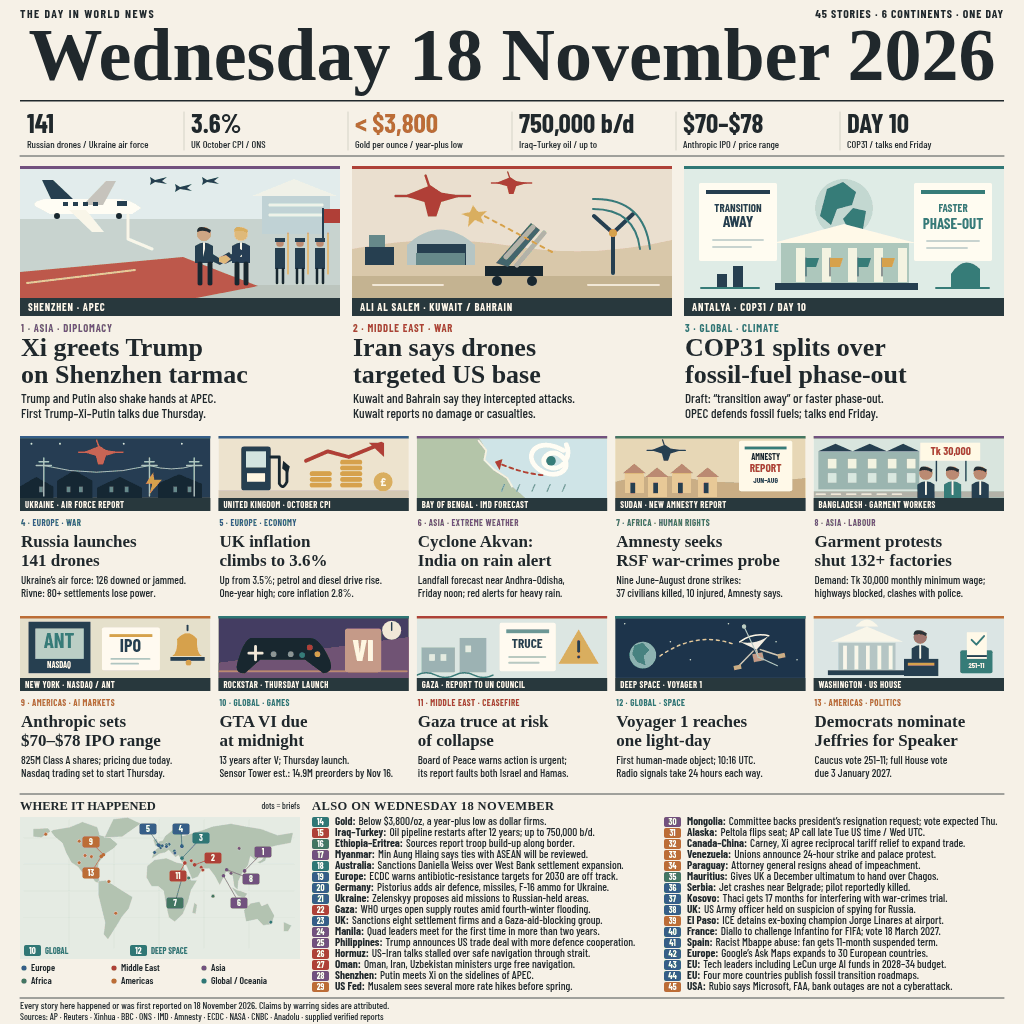
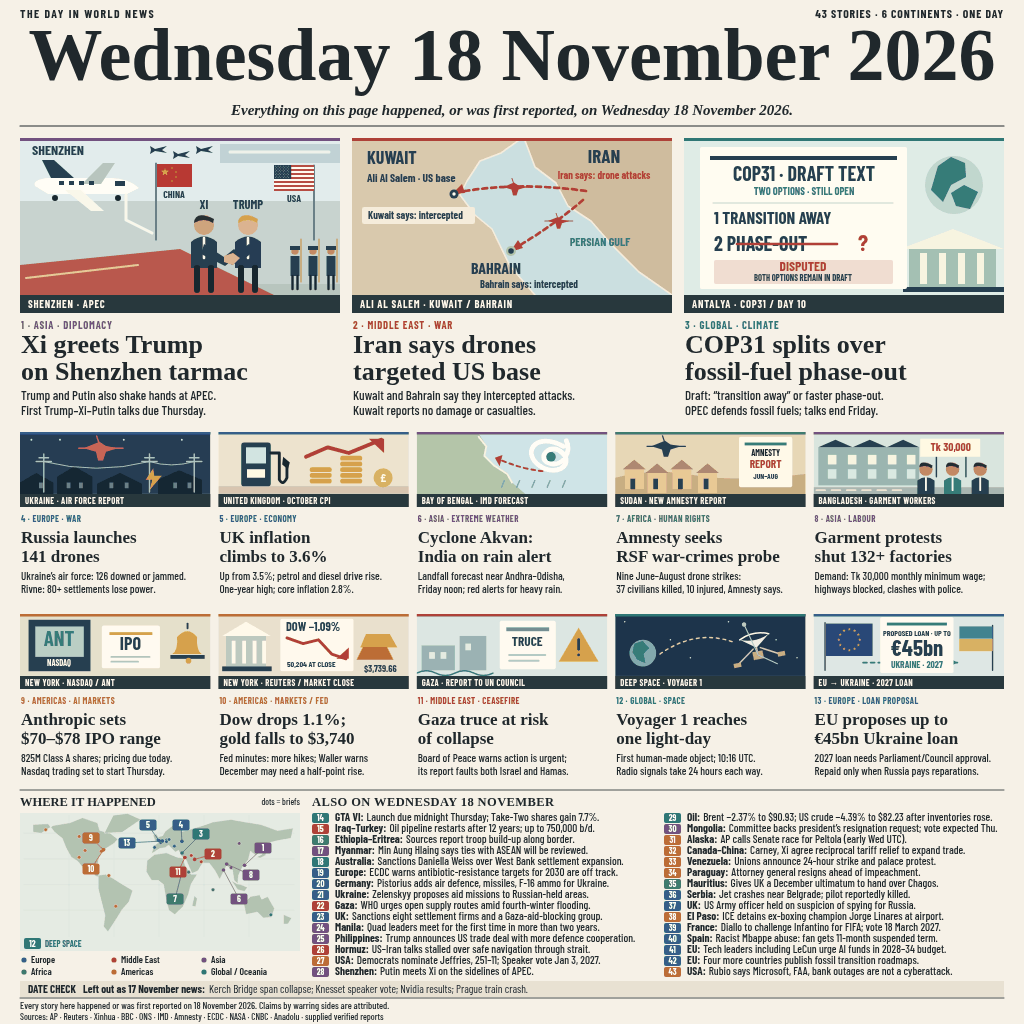
Round 4: date line, date-check band, taller literal leads, EU loan and markets tiles

diff --git a/src/inspect.py b/src/inspect.py
@@ -8,7 +8,7 @@ assert im.size==(1024,1024)
 im.quantize(colors=256,method=Image.Quantize.MEDIANCUT,dither=Image.Dither.NONE).save(root/'assets/entry.png',optimize=True)
 im=Image.open(root/'assets/entry.png').convert('RGB')
 im.resize((300,300),Image.Resampling.LANCZOS).save(root/'build/preview-300.png')
-regions={'masthead':(0,0,1024,161),'lead-1':(14,161,346,430),'lead-2':(346,161,678,430),'lead-3':(678,161,1010,430),'medium-top-left':(14,430,612,611),'medium-top-right':(610,430,1010,611),'medium-bottom-left':(14,611,612,790),'medium-bottom-right':(610,611,1010,790),'map':(14,790,305,997),'briefs-left':(306,790,658,997),'briefs-right':(658,790,1010,997),'footer':(0,995,1024,1024)}
+regions={'masthead':(0,0,1024,132),'lead-1':(14,130,346,428),'lead-2':(346,130,678,428),'lead-3':(678,130,1010,428),'medium-top-left':(14,426,612,610),'medium-top-right':(610,426,1010,610),'medium-bottom-left':(14,608,612,790),'medium-bottom-right':(610,608,1010,790),'map':(14,786,305,981),'briefs-left':(306,786,658,981),'briefs-right':(658,786,1010,981),'footer':(0,979,1024,1024)}
 (root/'build/crops').mkdir(exist_ok=True)
 for name,bounds in regions.items():
     crop=im.crop(bounds)
@@ -28,7 +28,7 @@ for card in audit['cards']:
             if min(a['x']+a['w'],b['x']+b['w'])-max(a['x'],b['x'])>.4 and min(a['y']+a['h'],b['y']+b['h'])-max(a['y'],b['y'])>.4:
                 issues.append(f"{card['id']} illustration touches type: {b['text']}")
 for b in audit['briefs']:
-    right=652 if b['id']<30 else 1004
+    right=652 if b['id']<29 else 1004
     t=b['text']
     if t['x']+t['w']>right-1:
         issues.append(f"Brief {b['id']} exceeds its column: {t['text']}")
@@ -46,7 +46,7 @@ for i,a in enumerate(audit['text']):
         if min(a['x']+a['w'],b['x']+b['w'])-max(a['x'],b['x'])>.4 and min(a['y']+a['h'],b['y']+b['h'])-max(a['y'],b['y'])>.4:
             issues.append(f"Page text intersection: {a['text']} / {b['text']}")
 (root/'build/layout-issues.json').write_text(json.dumps(issues,indent=2))
-print(f"PNG: 1024 × 1024, {(root/'assets/entry.png').stat().st_size:,} bytes. 13 scenes, 32 briefs, {len(audit['pins'])} geographic pins.")
+print(f"PNG: 1024 × 1024, {(root/'assets/entry.png').stat().st_size:,} bytes. 13 scenes, 30 briefs, {len(audit['pins'])} geographic pins.")
 print(f"Layout checks: {len(issues)} issues. 12 inspection crops at 2×.")
 for issue in issues: print(issue)
 

diff --git a/README.md b/README.md
@@ -3,16 +3,16 @@
 [![reward](https://make.fun/badge/news-image-20261118/leonidlouis/world-in-one-day-1118/reward.svg)](https://make.fun/bounty/news-image-20261118?utm_source=github&utm_medium=readme&utm_campaign=news-image-20261118)
 Entry for the [make.fun bounty](https://make.fun/bounty/news-image-20261118).
 
-A newspaper front page for **Wednesday 18 November 2026**: **45 stories**, with three large illustrated leads, ten medium scenes, six key figures, and 32 one-line briefs beside a world map. Large serif headlines lead with Shenzhen diplomacy, Gulf drones and COP31. Regional colours link the numbered stories and map markers.
+A newspaper front page for **Wednesday 18 November 2026**, with **43 stories**: three large illustrated leads, ten medium scenes, and 30 one-line briefs beside a world map. Taller lead panels show Shenzhen leaders and flags, claimed Gulf drone routes, and COP31’s disputed draft wording. An italic date statement and a DATE CHECK band make the reporting window explicit.
 
-Reporting uses only the supplied `facts1118.md` and `facts1118b.md`, with the addendum’s date corrections taking priority. Nvidia and Prague are removed; Mongolia covers only Wednesday’s committee step, and Alaska is a brief with its US/UTC timing stated. Claims are attributed and future events labelled.
+Uses only `facts1118.md`, `facts1118b.md` and `facts1118c.md`, with C’s corrections and closing figures taking priority. The EU’s proposed loan of up to €45bn for Ukraine and the Dow/gold/Fed close are illustrated; GTA VI and Jeffries are briefs. The excluded Tuesday events are named only in the DATE CHECK band. Claims and future events remain qualified.
 
-Run offline using Node 22 and its standard library:
+Run offline with Node 22 and its standard library:
 
 ```sh
 mkdir -p out && MAKEFUN_OUTPUT_DIR=out node main.ts
 ```
 
-`main.ts` writes the 1024 × 1024 PNG stored in `assets/entry.png`. Runtime needs no network or dependencies. Rebuild with `node src/render.mjs` using installed Google Chrome, Liberation Serif and Barlow Condensed fonts, and Python 3 with Pillow. All vector scenes and layout code are original and live in `src/`.
+`main.ts` writes the deterministic 1024 × 1024 PNG in `assets/entry.png`, without runtime dependencies or network access. Rebuild with `node src/render.mjs` using installed Google Chrome, Liberation Serif and Barlow Condensed fonts, and Python 3 with Pillow. Original vector scenes, layout and story data are in `src/`.
 
-The build writes a 300 px preview, twelve complete 2× inspection crops, and an audit of text bounds, image/type collisions and clipping into the ignored `build/` directory. The map uses geographic pins for eleven illustrated reports, separate global/deep-space markers for the other two, and small dots for located briefs.
+The build creates a 300 px preview, twelve complete 2× crops and a layout audit in the ignored `build/` directory. The map has twelve geographic story pins, a separate Voyager deep-space marker, and location dots for the briefs.
